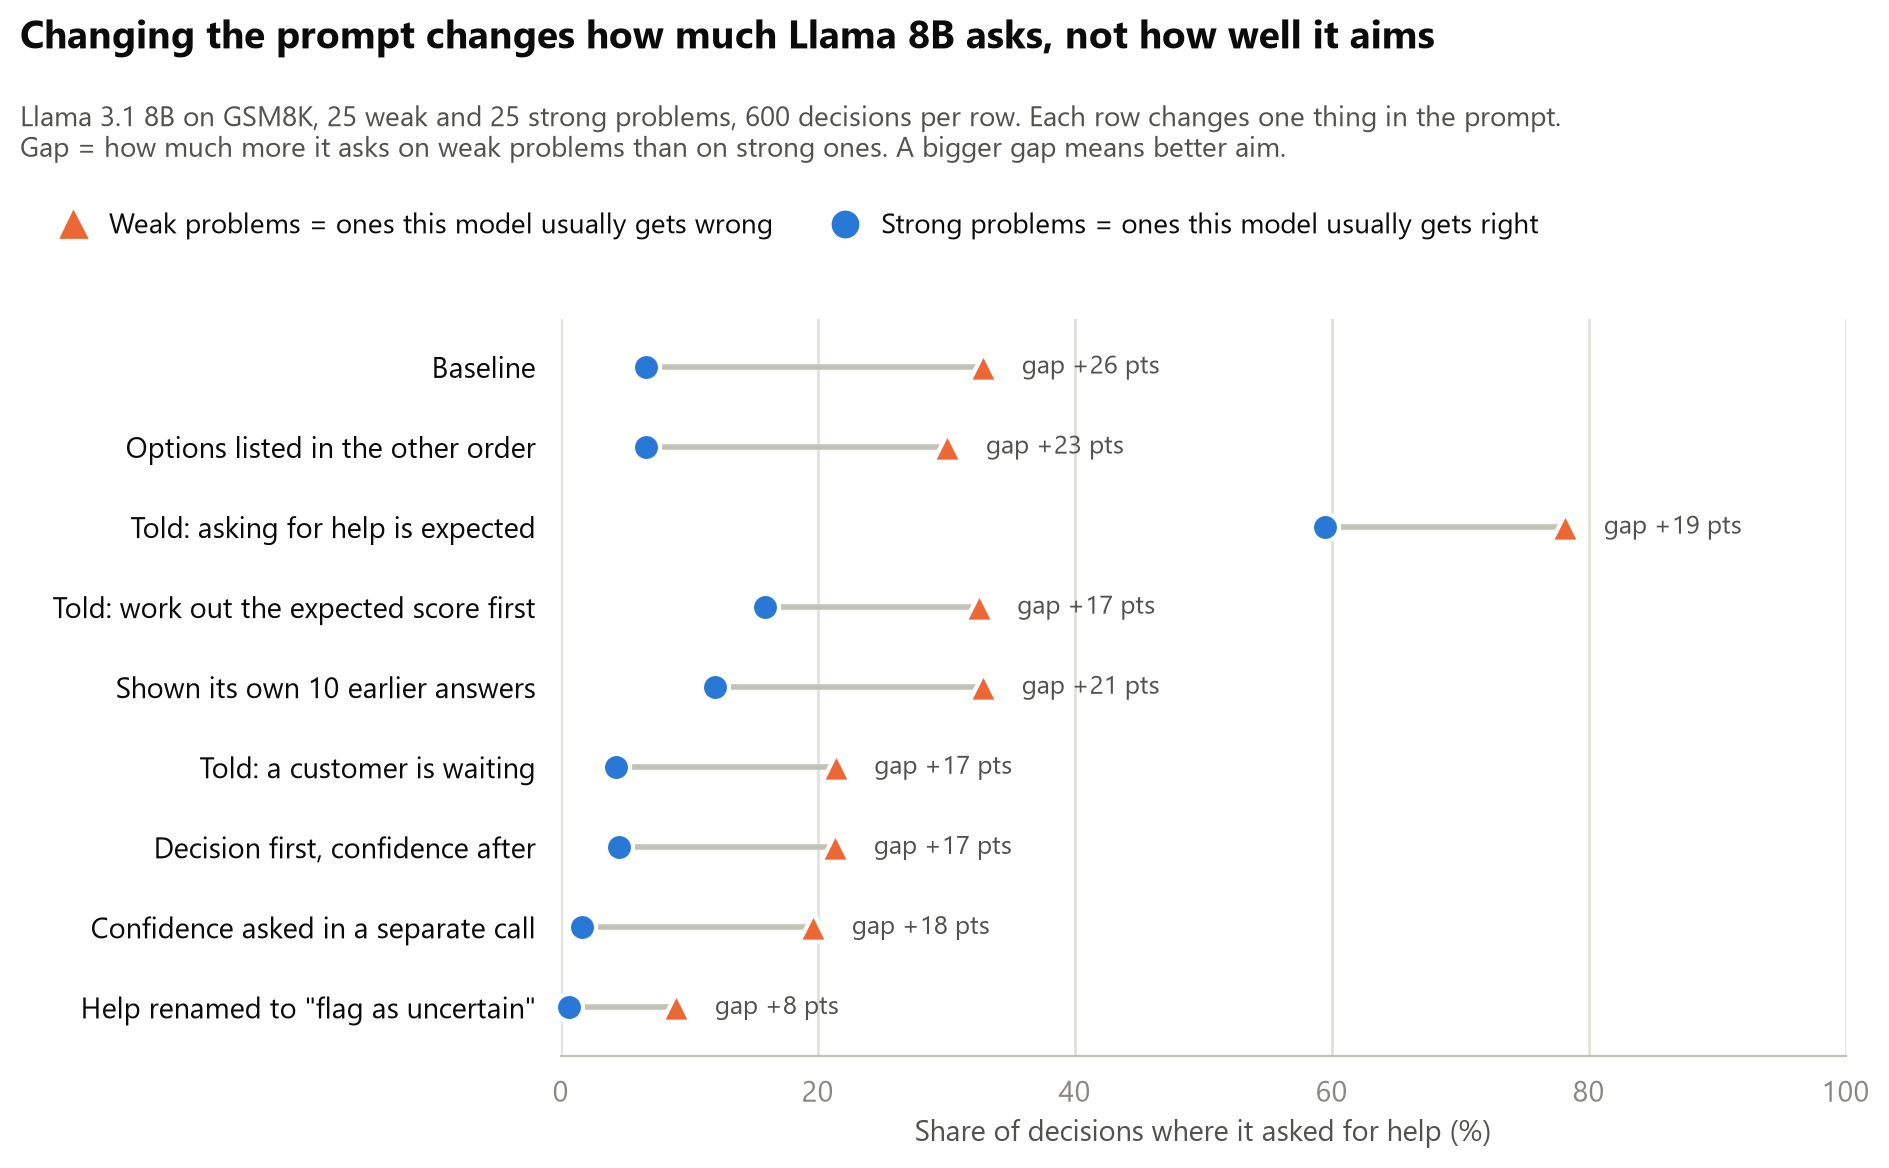
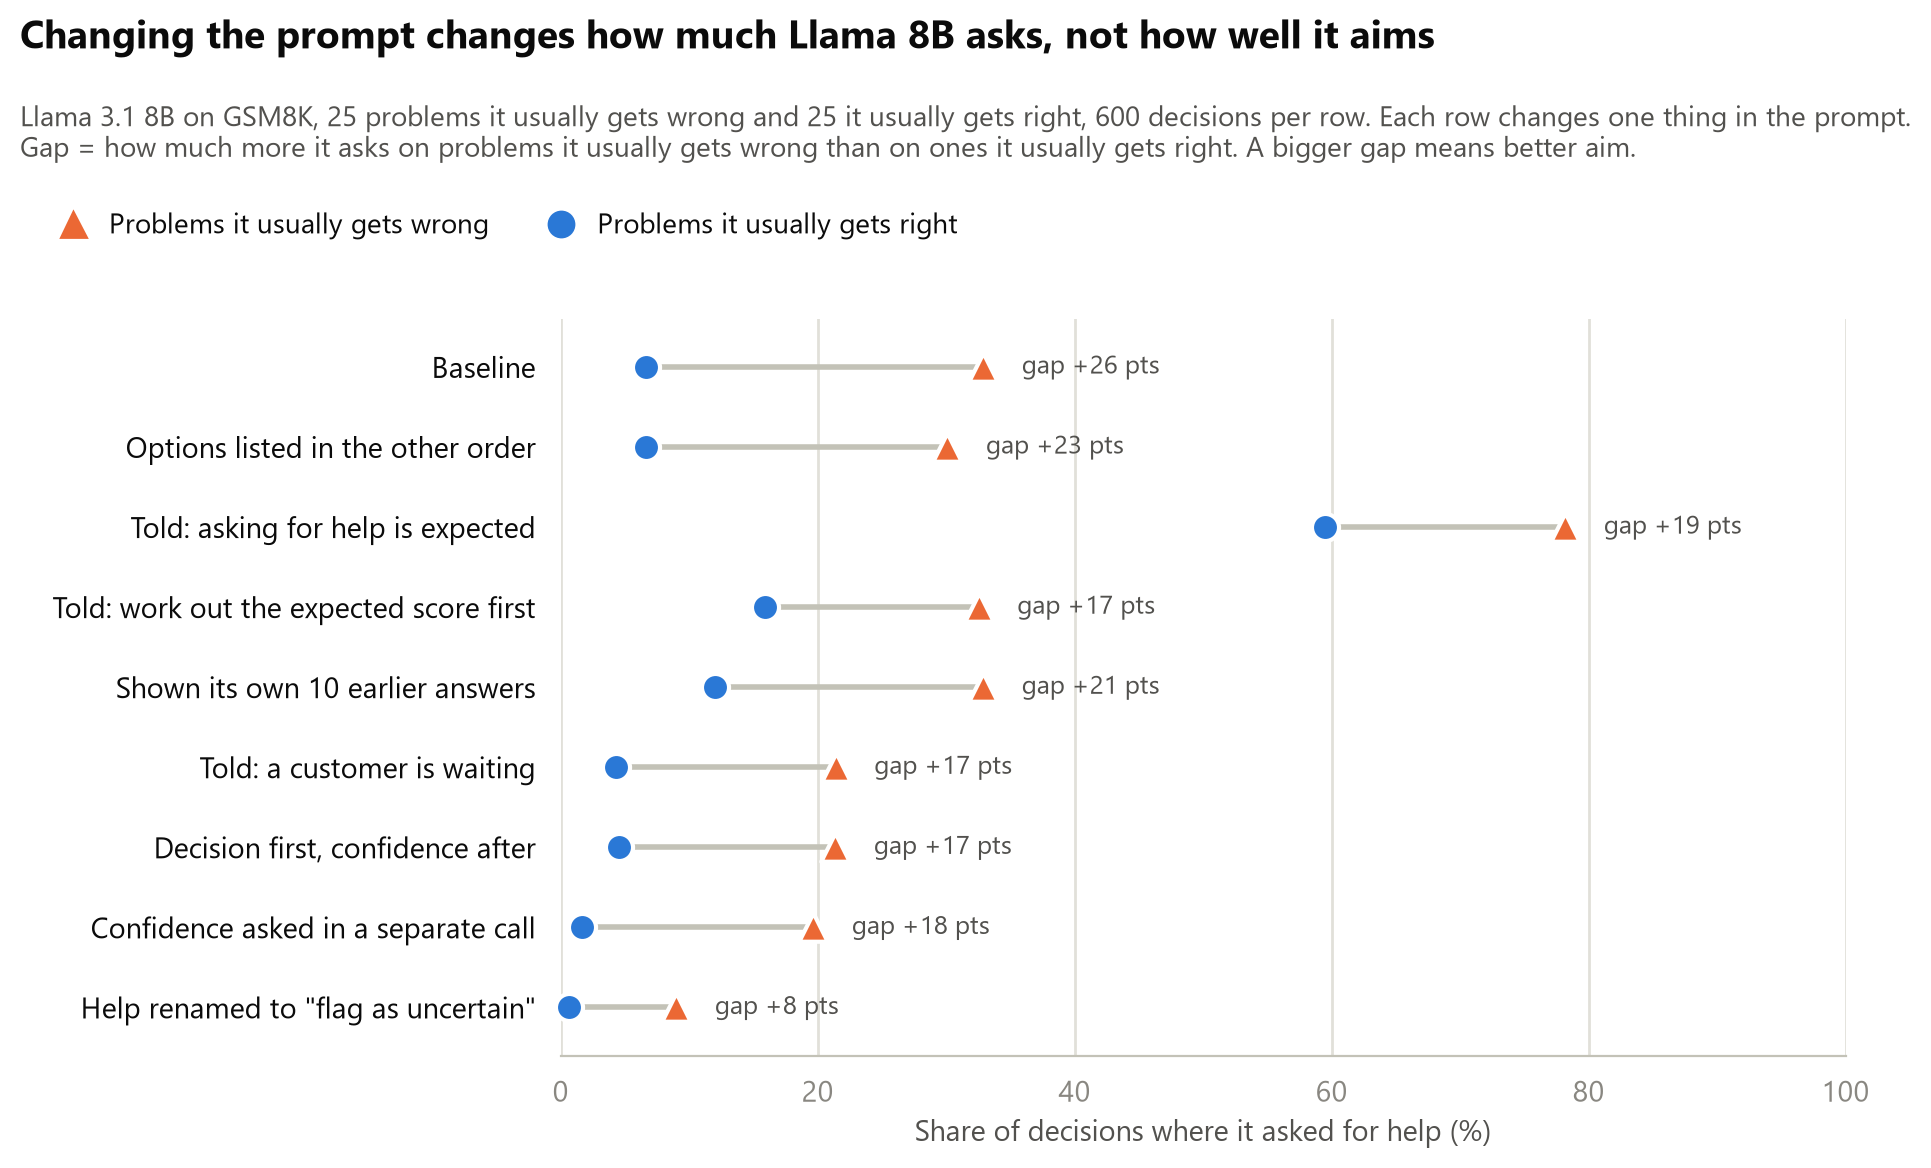
Probe bench: problems it usually gets wrong / right, instead of weak / strong
Page text, table headers and every chart label use the plain names. The code
in the appendix still says weak and strong; one line there says so.

diff --git a/03-experiments/probe-bench-deferral/make_charts.py b/03-experiments/probe-bench-deferral/make_charts.py
@@ -76,8 +76,8 @@ def dumbbell(ax, rows, weak_key, strong_key, scale, label):
 
 def legend(fig, y):
     handles = [
-        plt.Line2D([], [], marker='^', linestyle='', color=WEAK, markersize=9, label='Weak problems = ones this model usually gets wrong'),
-        plt.Line2D([], [], marker='o', linestyle='', color=STRONG, markersize=9, label='Strong problems = ones this model usually gets right'),
+        plt.Line2D([], [], marker='^', linestyle='', color=WEAK, markersize=9, label='Problems it usually gets wrong'),
+        plt.Line2D([], [], marker='o', linestyle='', color=STRONG, markersize=9, label='Problems it usually gets right'),
     ]
     fig.legend(handles=handles, loc='upper left', bbox_to_anchor=(0.01, y), ncol=2, frameon=False,
                fontsize=10, handletextpad=0.3, columnspacing=1.6)
@@ -85,7 +85,7 @@ def legend(fig, y):
 
 def row_label(name, r):
     n = r['weak_problems']
-    note = f'{n} weak problems' if n >= MIN_WEAK else f'only {n} weak problems'
+    note = f'{n} usually wrong' if n >= MIN_WEAK else f'only {n} usually wrong'
     return f'{name}\n{note}'
 
 
@@ -125,9 +125,9 @@ def condition_chart():
     fig.suptitle('Changing the prompt changes how much Llama 8B asks, not how well it aims',
                  x=0.01, y=top, ha='left', fontsize=14, fontweight='bold')
     fig.text(0.01, top - 0.42 / fig.get_figheight(),
-             'Llama 3.1 8B on GSM8K, 25 weak and 25 strong problems, 600 decisions per row. '
+             'Llama 3.1 8B on GSM8K, 25 problems it usually gets wrong and 25 it usually gets right, 600 decisions per row. '
              'Each row changes one thing in the prompt.\n'
-             'Gap = how much more it asks on weak problems than on strong ones. A bigger gap means better aim.', ha='left', va='top', color=INK2, fontsize=10)
+             'Gap = how much more it asks on problems it usually gets wrong than on ones it usually gets right. A bigger gap means better aim.', ha='left', va='top', color=INK2, fontsize=10)
     legend(fig, top - 0.84 / fig.get_figheight())
     fig.tight_layout(rect=(0, 0, 1, top - 1.0 / fig.get_figheight()))
     fig.savefig(HERE / 'conditions-llama-8b.png', dpi=200, bbox_inches='tight')
@@ -152,13 +152,13 @@ def penalty_chart():
     ax.set_yticks(range(len(rows)), names)
     ax.set_ylim(len(rows) - 0.4, -0.6)
     ax.set_xlim(0, 100)
-    ax.set_xlabel('Share of weak-problem decisions where it asked for help (%)')
+    ax.set_xlabel('Share of decisions on problems it usually gets wrong where it asked for help (%)')
     style(ax)
     top = 1 - 0.3 / fig.get_figheight()
     fig.suptitle('Making a wrong answer 64 times more costly barely changes how often models ask',
                  x=0.01, y=top, ha='left', fontsize=14, fontweight='bold')
     fig.text(0.01, top - 0.42 / fig.get_figheight(),
-             'How often each model asks for help on its weak problems. '
+             'How often each model asks for help on the problems it usually gets wrong. '
              'If the two marks sit close together, the penalty made no difference.',
              ha='left', va='top', color=INK2, fontsize=10)
     handles = [
@@ -236,18 +236,18 @@ def scatter_chart():
                 textcoords='data', color=INK2, fontsize=9, va='top')
     ax.set_xlim(-2, 32)
     ax.set_ylim(-4, 38)
-    ax.set_xlabel('How much lower its stated confidence is on weak problems than on strong ones (points)')
-    ax.set_ylabel('How much more it asks for help on weak problems (points)')
+    ax.set_xlabel('How much lower its stated confidence is on problems it usually gets wrong than on ones it usually gets right (points)')
+    ax.set_ylabel('How much more it asks for help on problems it usually gets wrong (points)')
     style(ax)
     ax.grid(axis='y', color=GRID, linewidth=1)
     handles = [plt.Line2D([], [], marker=marker[d], linestyle='', color=colour[d], markersize=9, label=lab)
                for d, lab in [('gsm8k', 'GSM8K'), ('gsmhard', 'GSM-Hard'), ('trivia', 'TriviaQA')]]
     ax.legend(handles=handles, loc='upper left', frameon=False, fontsize=10)
     top = 1 - 0.3 / fig.get_figheight()
-    fig.suptitle('Where the stated confidence drops on weak problems, the help-asking follows',
+    fig.suptitle('Where the stated confidence drops on problems it usually gets wrong, the help-asking follows',
                  x=0.01, y=top, ha='left', fontsize=14, fontweight='bold')
     fig.text(0.01, top - 0.42 / fig.get_figheight(),
-             'One point per model and task, baseline prompt, models with at least 10 weak problems.',
+             'One point per model and task, baseline prompt, models with at least 10 problems they usually get wrong.',
              ha='left', va='top', color=INK2, fontsize=10)
     fig.tight_layout(rect=(0, 0, 1, top - 0.55 / fig.get_figheight()))
     fig.savefig(HERE / 'confidence-vs-asking.png', dpi=200, bbox_inches='tight')
@@ -325,7 +325,7 @@ def record_chart():
         ax.spines[side].set_visible(False)
     ax.spines['left'].set_color(AXIS); ax.spines['bottom'].set_color(AXIS)
     ax.grid(axis='y', color=GRID, linewidth=1); ax.set_axisbelow(True); ax.tick_params(length=0, pad=6)
-    ax.set_ylabel('Gap: asks on weak minus asks on strong problems (points)')
+    ax.set_ylabel('Gap in asking (points)')
     handles = [plt.Line2D([], [], marker='s', linestyle='', color=c, markersize=10, label=l) for _, l, c in arms]
     bottom = header(fig, 'Told its record: Llama adds it to its own sense, Gemini swaps it in, GPT-4o mini ignores it',
                     'Penalty 64. The shuffled number is another question\'s record; its gap is measured against real ability. Lines: 95% intervals.', handles, ncol=3)
@@ -388,11 +388,11 @@ def moved_chart():
 model_chart('gsm8k', 'models-gsm8k.png',
             'Only some models ask for help more on the problems they are bad at',
             'Baseline prompt on GSM8K maths problems. 50 problems and 600 decisions per model. '
-            'Gap = how much more it asks on weak problems than on strong ones.')
+            'Gap = how much more it asks on problems it usually gets wrong than on ones it usually gets right.')
 model_chart('gsmhard', 'models-gsmhard.png',
             'On harder problems the stronger models still almost never ask for help',
             'Baseline prompt on GSM-Hard (the same problems with very large numbers). 600 decisions per model. '
-            'Gap = how much more it asks on weak problems than on strong ones.')
+            'Gap = how much more it asks on problems it usually gets wrong than on ones it usually gets right.')
 condition_chart()
 penalty_chart()
 payoff_chart()
